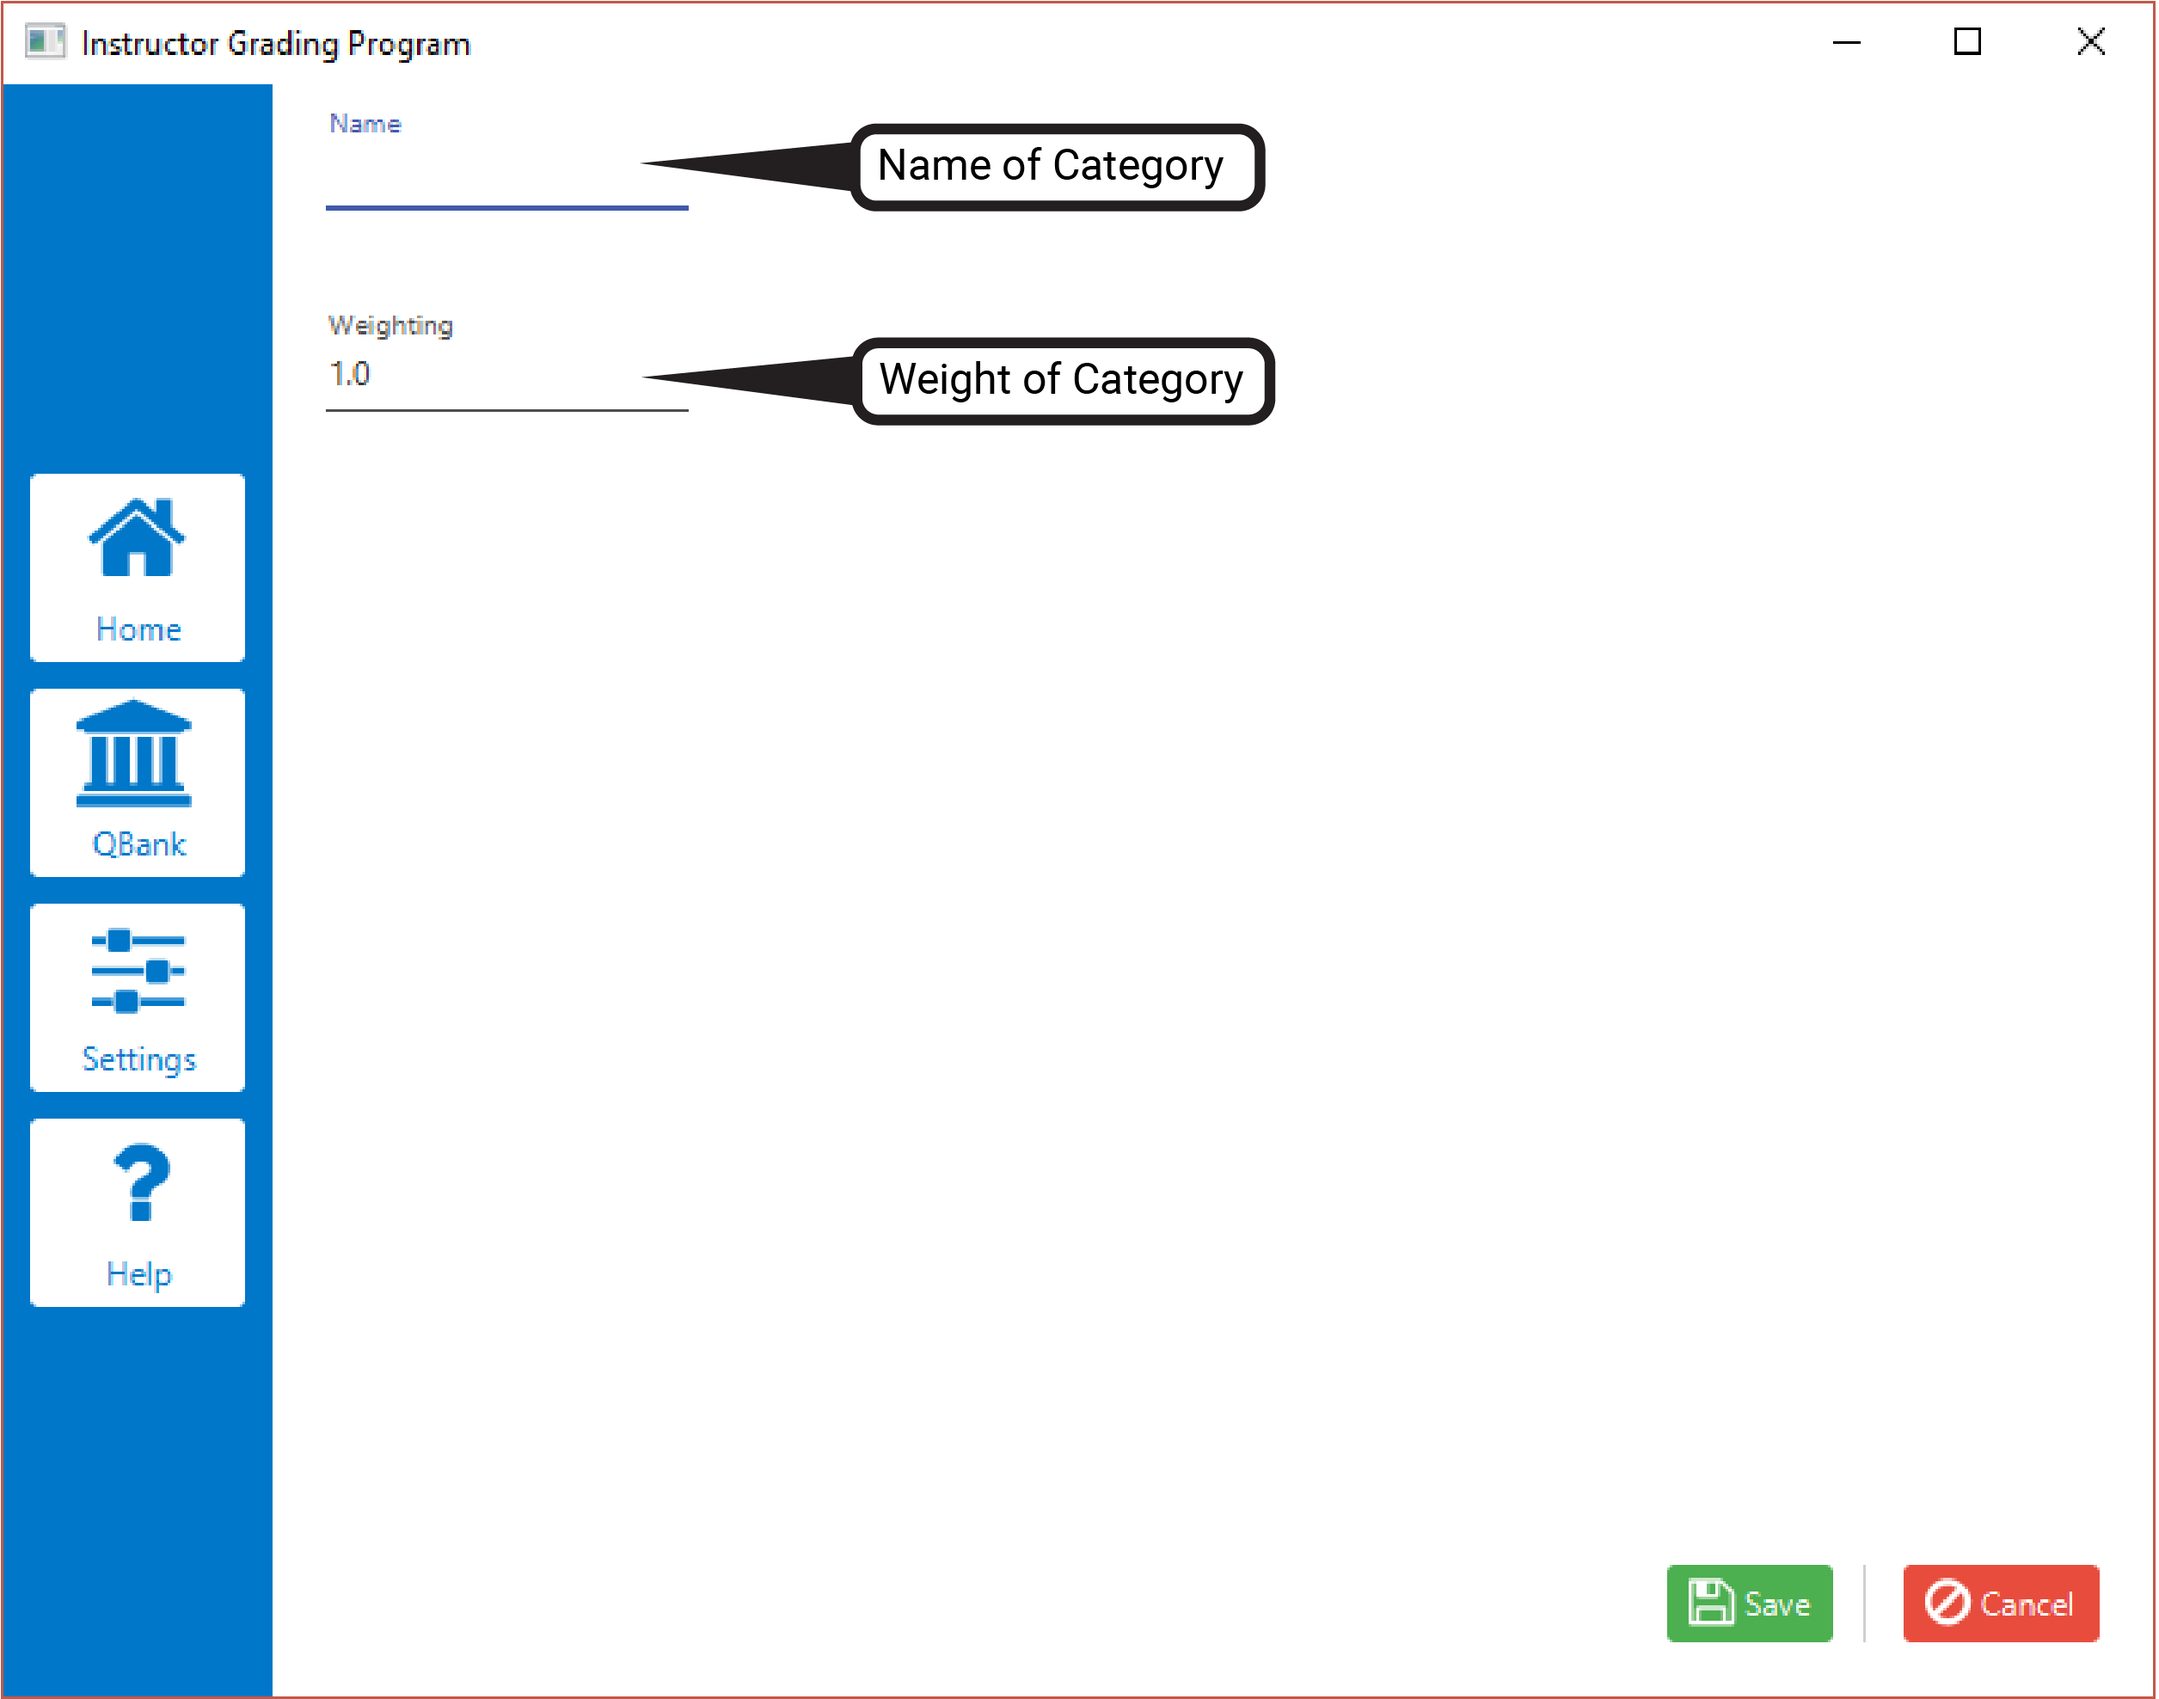
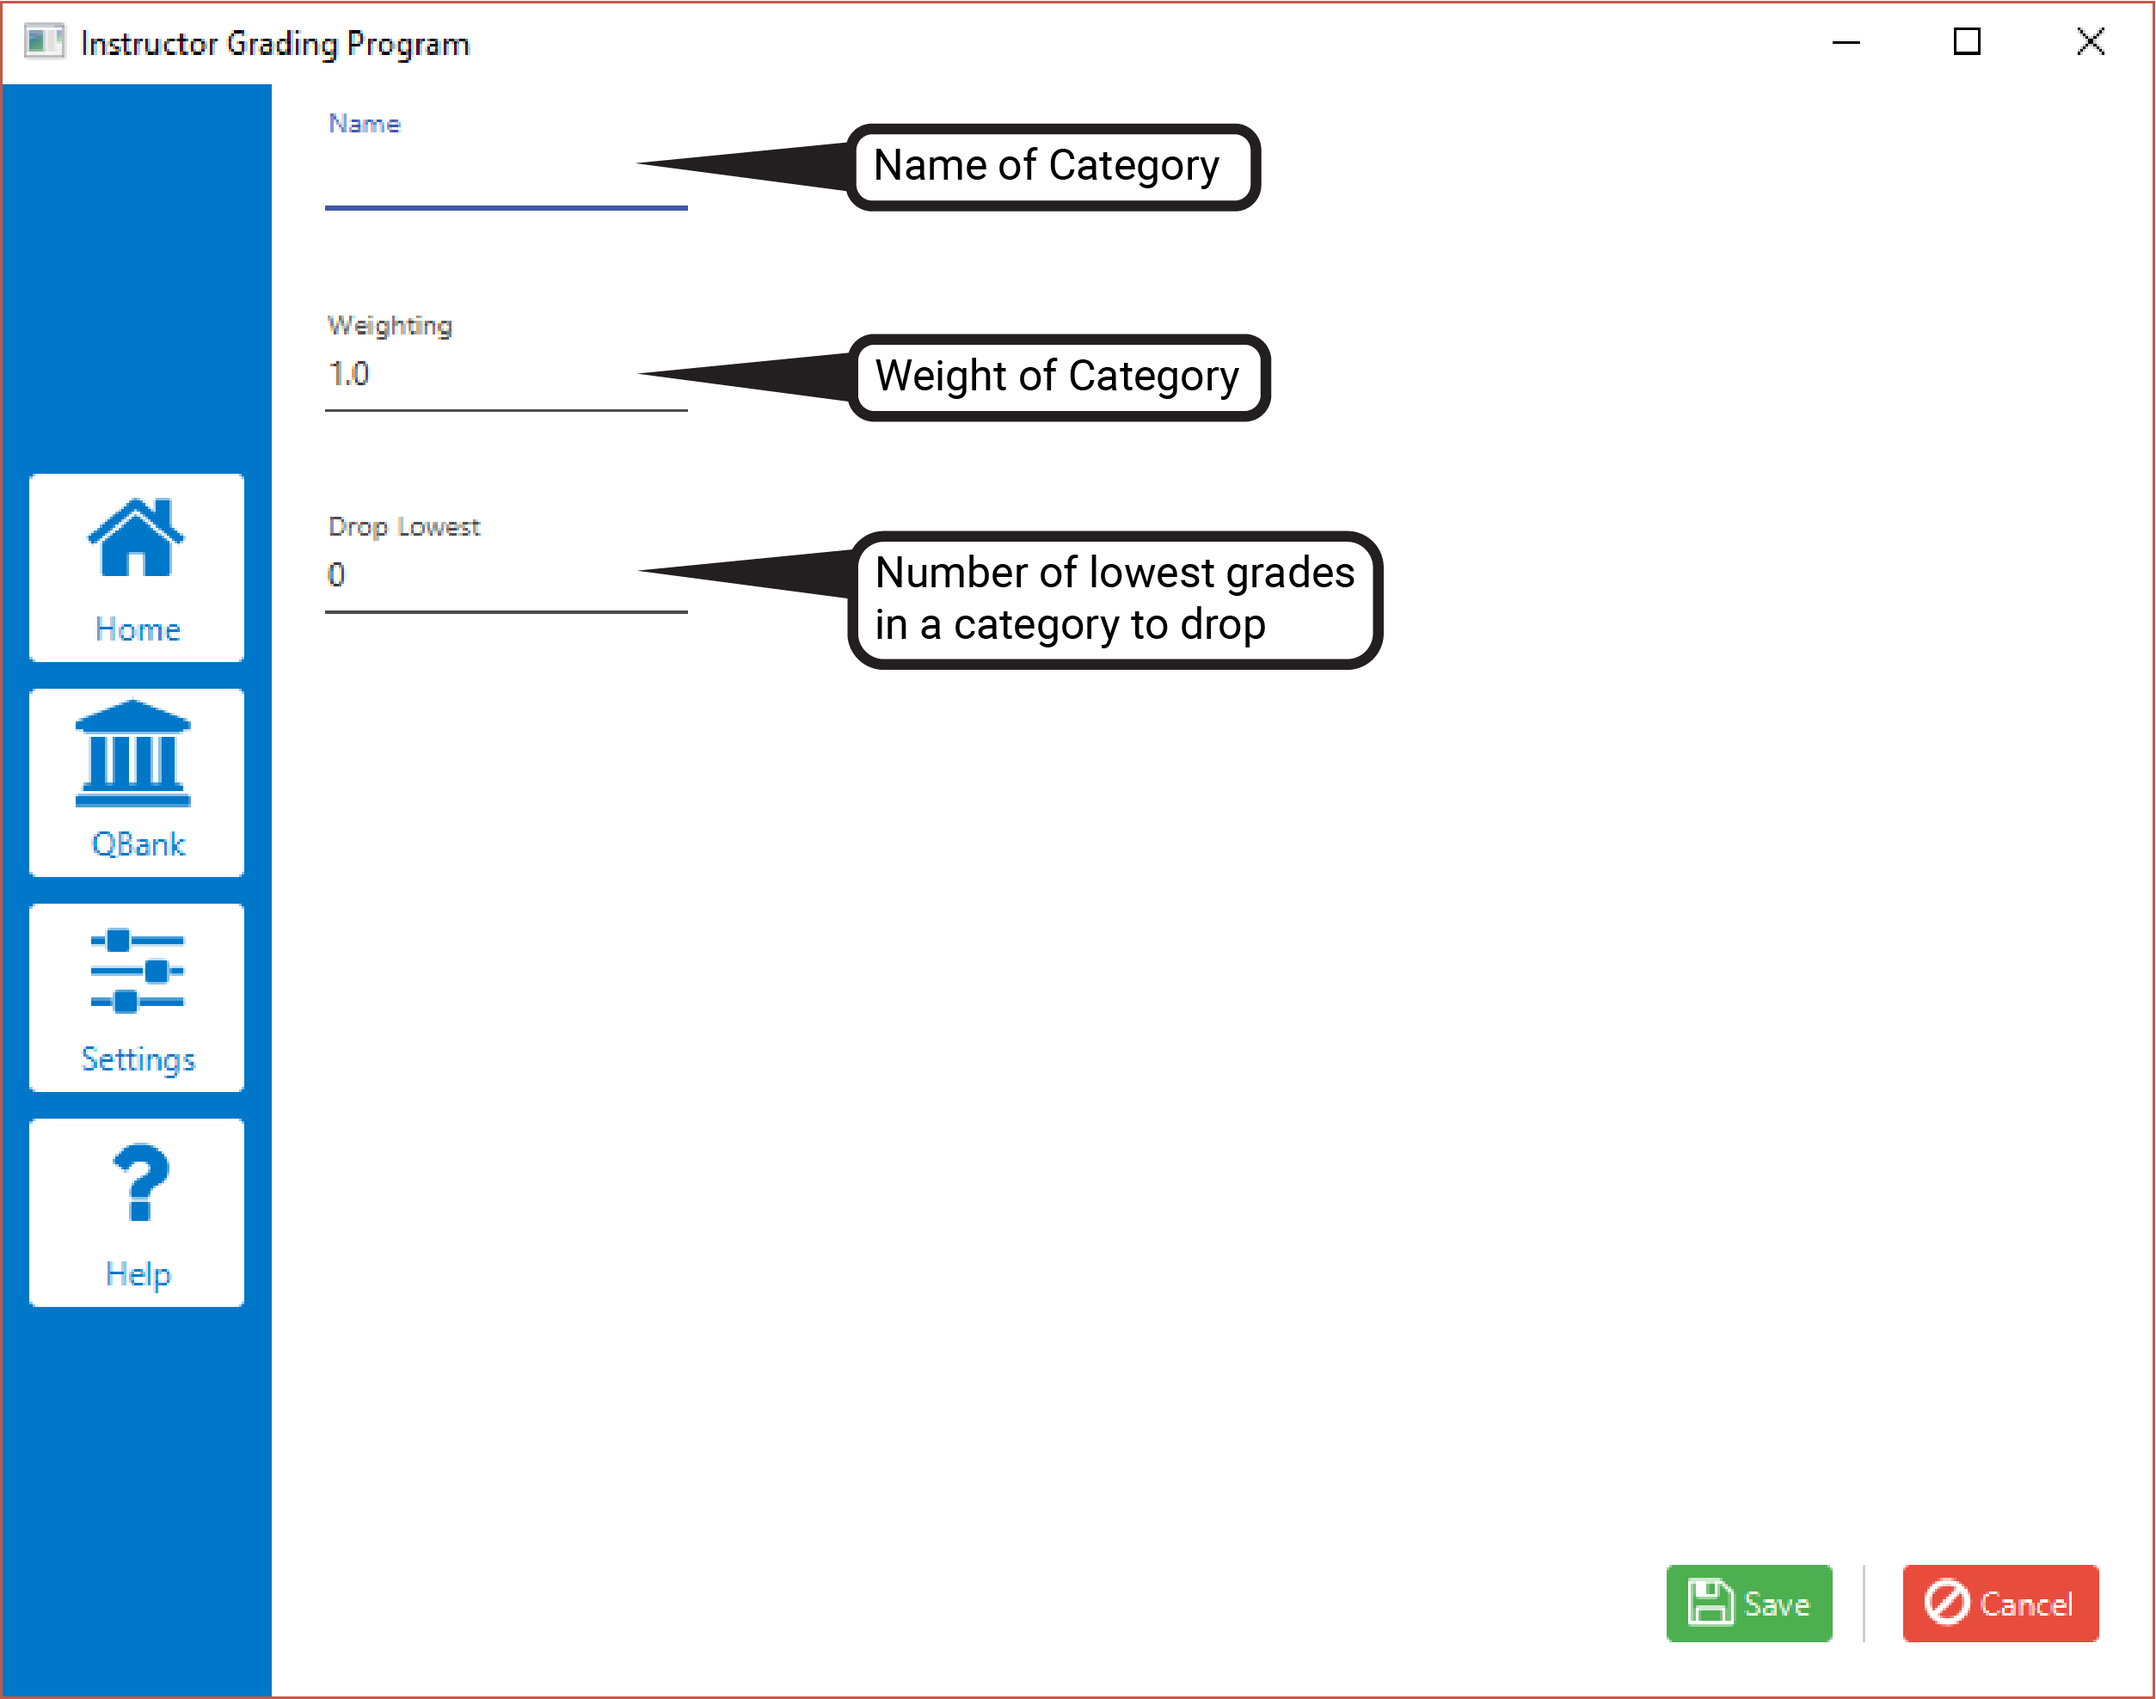
JFXDatePicker now has floating label; Updated help document

diff --git a/res/help.html b/res/help.html
@@ -36,8 +36,8 @@
             <p>Cannapaceus is a software tool secondary-level professors and professional instructors. It serves as a total digital replacement for a traditional gradebook and a means of consolidating electronic resources pertaining to student grades and other classroom information.</p><p>This help document is broken down into sections pertaining to the functionality of the software and the means by which the user interacts with it. Refer to the table of contents on the left side of the page for help with specific parts of the program.</p></div>
         <div id="login">
             <h3>Login Page</h3>
-            <p>Users will access the Instructor Grading Program through a traditional username/password login interface. When the user first runs the program, he or she will create a database by entering a username and password of their choice. This username and password will serve as their login information for all future usage of the software</p>
-            <p>If you wish to reset your login information, contact your system administrator or contact service.cannapaceus@gmail.com.</p>
+            <p>Users will access the Instructor Grading Program through a traditional username/password login interface. When the user first runs the program, he or she will create a database by entering a username and password of their choice, whereupon they will be asked to confirm these details.</p>
+            <p> This username and password will serve as their login information for all future usage of the software. Passwords must be at least 8 characters in length.</p>
             <a href="01%20-%20Login_annotated.png" data-lightbox="img1"><img src="01%20-%20Login_annotated.png" alt="Login Page"></a>
             <script src="lightbox-plus-jquery.js"></script>
             <br></div>
@@ -100,6 +100,7 @@
                 <li>DROPPED: The assignment was completed, but is not being counted towards the student's average grade.</li>
                 <li>SUBMITTED: The assignment was completed, regardless of timing, and is being counted towards the student's average grades. A grade value will not appear as part of the student's average until an assignment is labeled as SUBMITTED.</li>
             </ul>
+            <p>To create or email a grade report for an individual student, use the additional options on the right side of the view.</p>
             <a href="07%20-%20Student%20View.png" data-lightbox="img10"><img src="07%20-%20Student%20View.png" alt="Student View"></a>
             <script src="lightbox-plus-jquery.js"></script><br></div>
         <div id="assignment">
@@ -111,6 +112,7 @@
             <ul>
                 <li>The name of the category</li>
                 <li>The weight of the category, defined as a percentage of the student's average grade. Weights across all assignment categories <strong>should add up to 1.0</strong> for accurate calculation. Unweighted categories should be given the default value of 1.0.</li>
+                <li>If desired, the program will automatically drop the <i>n</i> lowest grades in a category.</li>
             </ul>
             <a href="09%20-%20Category%20Form_annotated.png" data-lightbox="img12"><img src="09%20-%20Category%20Form_annotated.png" alt="Category Form"></a>
             <script src="lightbox-plus-jquery.js"></script><br>
@@ -129,6 +131,7 @@
             <script src="lightbox-plus-jquery.js"></script><br>
             <p>Assignment View functions similarly to Student View. The table displays a single assignment grade for each student in the course. Grade values and properties can be edited from this view.</p>
             <p>Assigment View also displays statistics for the selected assignment, including mean, median, mode, and standard deviation.</p>
+            <p>Grade values will not be calculated until an assigment is marked as submitted. To mark an assignment as submitted for all students in a course, select the "Submit all Grades" button.</p>
             <a href="10%20-%20Assignment%20View.png" data-lightbox="img14"><img src="10%20-%20Assignment%20View.png" alt="Assignment View"></a>
             <script src="lightbox-plus-jquery.js"></script><br></div>
         <div id="gradebook">
@@ -142,9 +145,10 @@
             <p>By expanding the hamburger menu at the top-right corner of Course View, the user can access additional course functions, including:</p>
             <ul>
                 <li>The ability to download and print a list of students and all student information not related to grades as a .CSV or a .PDF file.</li>
-                <li>The ability to download and print grade reports for the entire course.</li>
+                <li>The ability to download and print grade reports for the entire course as a .CSV or a .PDF file.</li>
                 <li>The ability to email individual academic reports to students in the course.</li>
                 <li>The ability to import a grading scale, category list, or assignment list from a previous course. See the next section for more details on this function.</li>
+                <li>The ability to import course details from a .CSV file.</li>
             </ul>
             <a href="12%20-%20Course%20Options_annotated.png" data-lightbox="img16"><img src="12%20-%20Course%20Options_annotated.png" alt="Additional Course Functions"></a>
             <script src="lightbox-plus-jquery.js"></script><br>
@@ -170,7 +174,8 @@
             <script src="lightbox-plus-jquery.js"></script><br></div>
         <div id="settings">
             <h3>User Settings</h3>
-            <p>As of the most recent version of Cannapaceus, the user settings contains only a field where the user can specify their email address to use the program's email functionality. Future versions of the programs will contain additional personalization options.</p>
+            <p>The user settings menu contains a field where the user can specify their email address to use the program's email functionality. The user may also change their password at any time from this view.</p>
+            <p>Future versions of the programs will contain additional personalization options.</p>
             <a href="16%20-%20Settings%20Form.png" data-lightbox="img20"><img src="16%20-%20Settings%20Form.png" alt="User Settings Form"></a>
             <script src="lightbox-plus-jquery.js"></script><br></div>
         <p>For additional help, contact us at service.cannapaceus@gmail.com</p>

diff --git a/src/com/cannapaceus/jfxml/IGP.css b/src/com/cannapaceus/jfxml/IGP.css
@@ -75,3 +75,9 @@
 .scroll-pane > .viewport {
    -fx-background-color: transparent;
 }
+
+/* JFXDatePicker Label Float */
+
+.jfx-date-picker > .jfx-text-field {
+    -jfx-label-float: true;
+}
